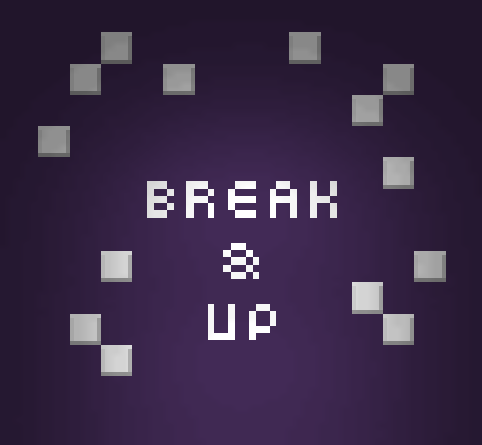
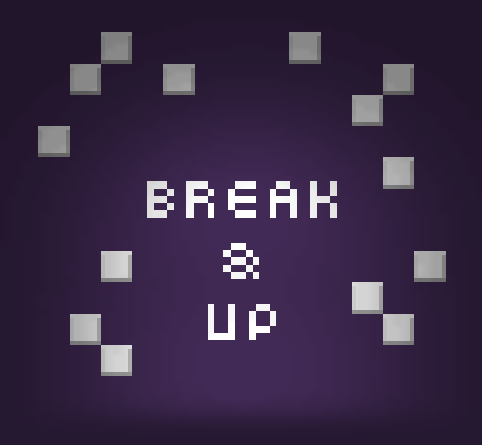
asd

Changed region(s): [[0.2801, 0.9348, 0.7469, 1.0]]

diff --git a/breakandup/index.htm b/breakandup/index.htm
@@ -31,8 +31,10 @@
   
 	<style type="text/css" media="screen">
   	body {
-  		background: #1b0804;
-  		margin: 20px;
+  		background: #251831;
+		background-image: url("../landing/breakandup/images/bg.png");
+    	background-repeat: repeat-x;
+  		margin: 0px;
   	}
   	img {
 		padding: 0;
@@ -41,7 +43,7 @@
   	}
 	h1 {
   		font-family: OCR A Std, monospace;
-  		color: #e3e723;
+  		color: #fff;
   		font-size: 25px;
   		text-shadow: 0px 0px 2px #000, 0px 0px 3px #000, 0px 0px 4px #000, 2px 4px 5px #000;
   		text-align: center;
@@ -50,7 +52,7 @@
   	p {
 		width: 100%;
   		font-family: OCR A Std, monospace;
-  		color: #e8571b;
+  		color: #aaa;
   		font-size: 15px;
   		text-shadow: 0px 0px 2px #000, 0px 0px 3px #000, 0px 0px 4px #000, 2px 4px 5px #000;
   		text-align: center;
@@ -58,7 +60,7 @@
   	}
   	a {
   		text-decoration: none;
-  		color: #e3e723;
+  		color: #daf;
   	}
   	.copyright {
   		text-decoration: none;
@@ -73,7 +75,7 @@
 
 <body style="width:100%;max-width:740px">
 	<div align="center" style="width:80%">
-		<img src="http://www.david.cm/landing/breakandup/images/breakandup_title.png" width="100%" alt="" style="max-width:482px">
+		<img src="../landing/breakandup/images/breakandup_title.png" width="100%" alt="" style="max-width:482px">
 		
 		<p style="font-size:20px;">
 			The Breaking Game Sensation!
@@ -88,18 +90,19 @@
 			<a href="https://play.google.com/store/apps/details?id=cm.david.breakandup&hl=en"><img src="http://www.david.cm/images/badge_GooglePlay.png"></a>
 		</p>
 
-		<h1>Watch the trailer</h1>
+		<h1><a href="https://www.youtube-nocookie.com/embed/0K8YgXsy8Nk?rel=0">
+			Watch the trailer
+		</a></h1>
 		
-		<iframe align="center" frameborder="0" allowfullscreen width="640" height="360"
-			src="https://www.youtube-nocookie.com/embed/0K8YgXsy8Nk?rel=0">
-		</iframe>
-
-		<h1><a href="/projects/breakandup">Learn more</a></h1>
+		<h1><a href="/projects/breakandup">
+			Learn more
+		</a></h1>
 
 		<p class="copyright">
 			Copyright © 2015 -
-				<script type="text/javascript">document.write((new Date()).getFullYear());</script>
-			<br>
+			<script type="text/javascript">
+				document.write((new Date()).getFullYear());
+			</script><br>
 			David.CM, Pau Damià Riera. All rights reserved.
 		</p>
 	</div>

diff --git a/landing/breakandup/index.html b/landing/breakandup/index.html
@@ -24,7 +24,7 @@
 	<style type="text/css" media="screen">
   	body {
   		background: #1b0804;
-  		margin: 20px;
+		margin: 20px;
   	}
   	img {
 		padding: 0;
